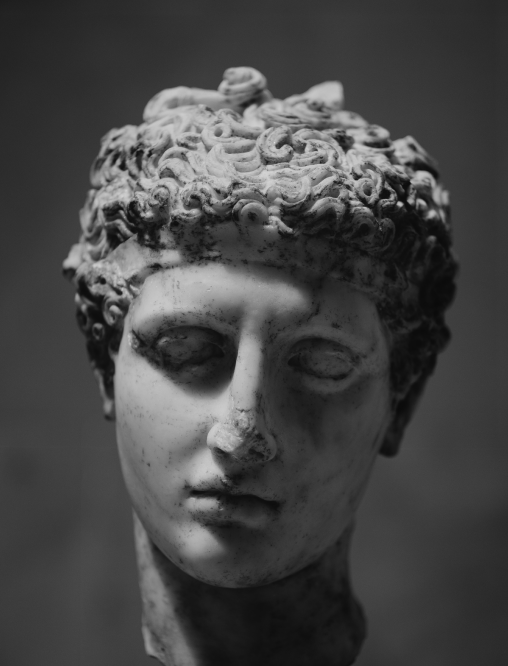
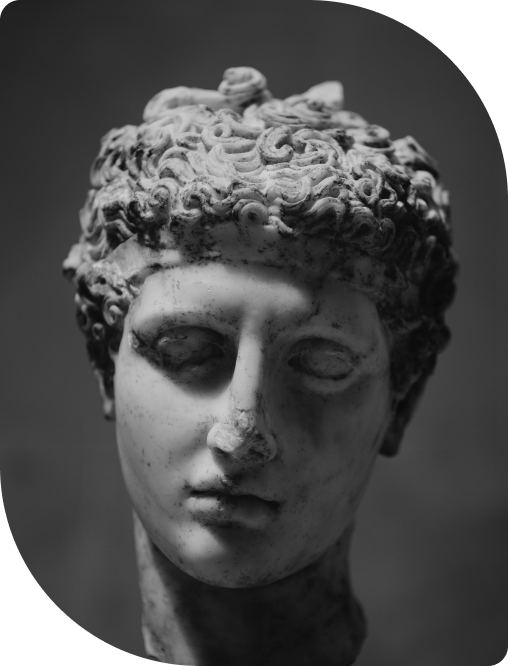
styling

diff --git a/src/components/banner/Banner.jsx b/src/components/banner/Banner.jsx
@@ -5,29 +5,31 @@ import { Outlet } from "react-router-dom";
 const Banner = () => {
   return (
     <>
-      <div className="flex flex-row items-center justify-between">
-        <div className="w-2/4 flex flex-col gap-x-24">
-          <div>
-            <h1 className="text-7xl">
-              Discover amazing art around the
+      <div className="flex flex-row justify-between mt-14 pt-10 h-screen">
+        <div className="w-3/5 flex flex-col gap-x-24">
+          <div className="w-3/4">
+            <h1 className="text-7xl font-medium">
+              Discover amazing <span>art around the </span>
               <span className="text-[#FBAF00]">world</span>
             </h1>
           </div>
           <div>
-            <p>
+            <p className="mt-11 w-2/5">
               Browse a curated selection of art around the world, Including
-              museum exhibitions, galley openings, upcoming and many more
+              museum exhibitions, gallery openings, upcoming and many more
             </p>
           </div>
-          <div>
+          <div className="mt-11">
             <Button children="Explore arts" />
           </div>
         </div>
-        <div className="relative">
-          <span className="relative">
+        <div className="relative mb-4 w-2/4 h-full">
+        <span className="absolute z-30 mt-10 mr-14"><img src="/assets/vector.png" alt="strings" /></span>
+          <span className="absolute z-20 ml-14">
             <img src="/assets/banner.png" alt="levi mattia" />
           </span>
-          <span class="absolute -mb-1 -mr-1 bg-[#FBAF00]"></span>
+          
+          <span class="absolute z-10 bg-[#FBAF00] h-full"></span>
         </div>
       </div>
       <Outlet />

diff --git a/src/components/art-categories/Categories.jsx b/src/components/art-categories/Categories.jsx
@@ -17,21 +17,20 @@ const Categories = () => {
   console.log(arts);
 
   return (
-    <div className="flex flex-col">
-      {" "}
-      <div className="flex flex-row">
+    <div className="flex flex-col pt-10">
+      <div className="flex flex-row justify-between">
         <div>
-          <h2>Art in the collection</h2>
-          <p>
+          <h2 className="font-semibold text-[40px]" >Art in the collection</h2>
+          <p className="mt-6 w-3/5">
             Browse a curated selection of art around the world, Including museum
-            exhibitions, galley openings, upcoming and many more
+            exhibitions, gallery openings, upcoming and many more
           </p>
         </div>
-        <div>
-          <input placeholder="search" />
+        <div className="mt-6">
+          <input placeholder="search" className="bg-[#1A1405] rounded-3xl  h-12 w-[530px] text-[#FBAF00] px-6" />
         </div>
       </div>
-      <div className="grid-cols-2 md:grid-cols-3 lg:grid-cols-4 flex flex-row flex-wrap items-center justify-evenly gap-x-24">
+      <div className="grid-cols-2 md:grid-cols-3 lg:grid-cols-4 flex flex-row flex-wrap items-center justify-evenly gap-x-24 mt-11">
         {artsCollection?.data?.map((art) => (
           <div
             key={art.id}

diff --git a/src/App.jsx b/src/App.jsx
@@ -5,7 +5,7 @@ import { Routes, Route } from "react-router-dom";
 
 const App = () => {
   return (
-    <div className="bg-[#110C00] text-white px-6 font-sora not-italic ">
+    <div className="bg-[#110C00] text-white px-10 font-sora not-italic ">
       <Routes>
         <Route path="/" element={<Header />}>
           <Route path="/" element={<Banner />}>

diff --git a/src/components/category/Category.jsx b/src/components/category/Category.jsx
@@ -1,0 +1,5 @@
+const Category = ({ artID }) => {
+  return <div>Category</div>;
+};
+
+export default Category;
